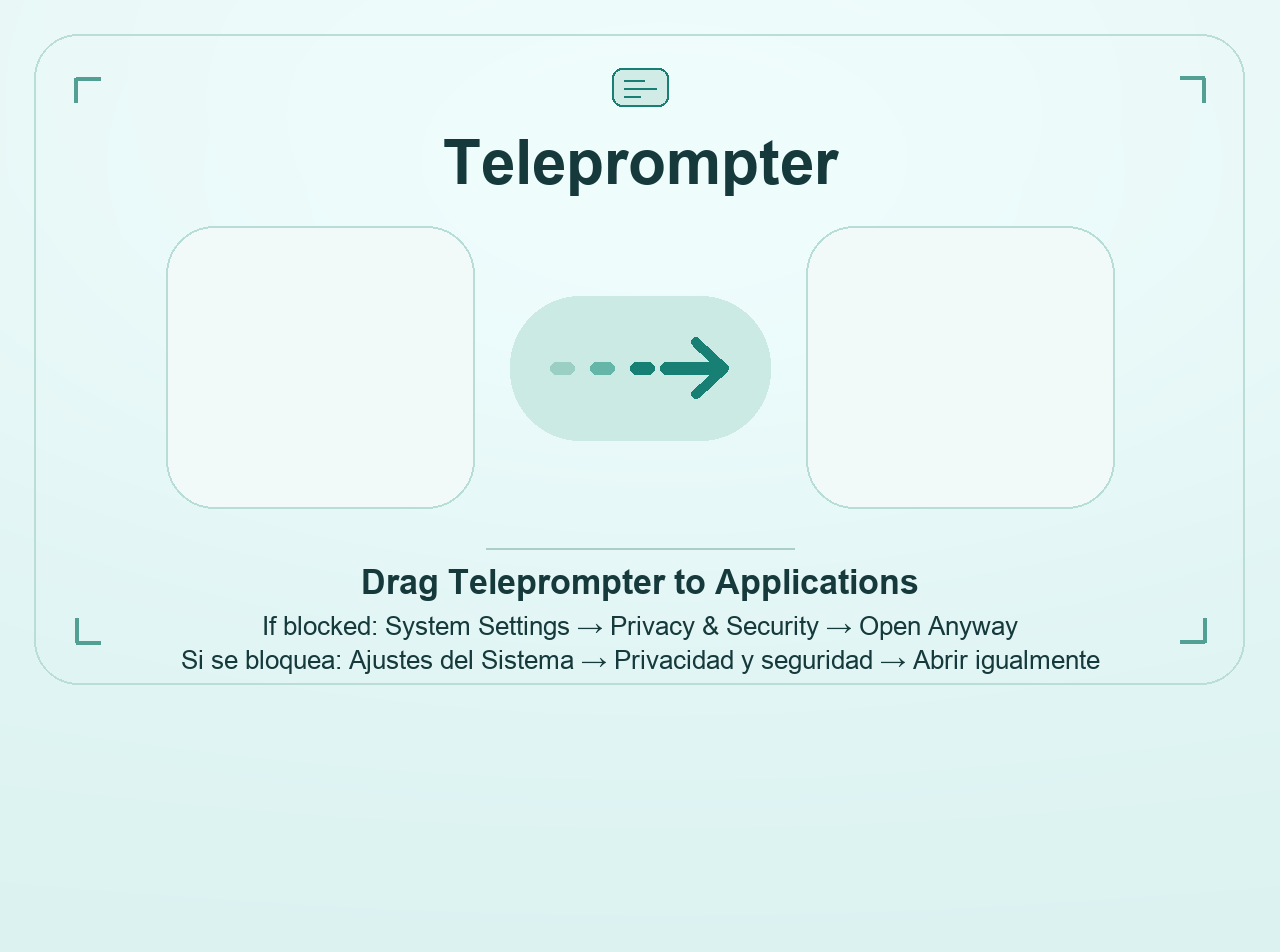
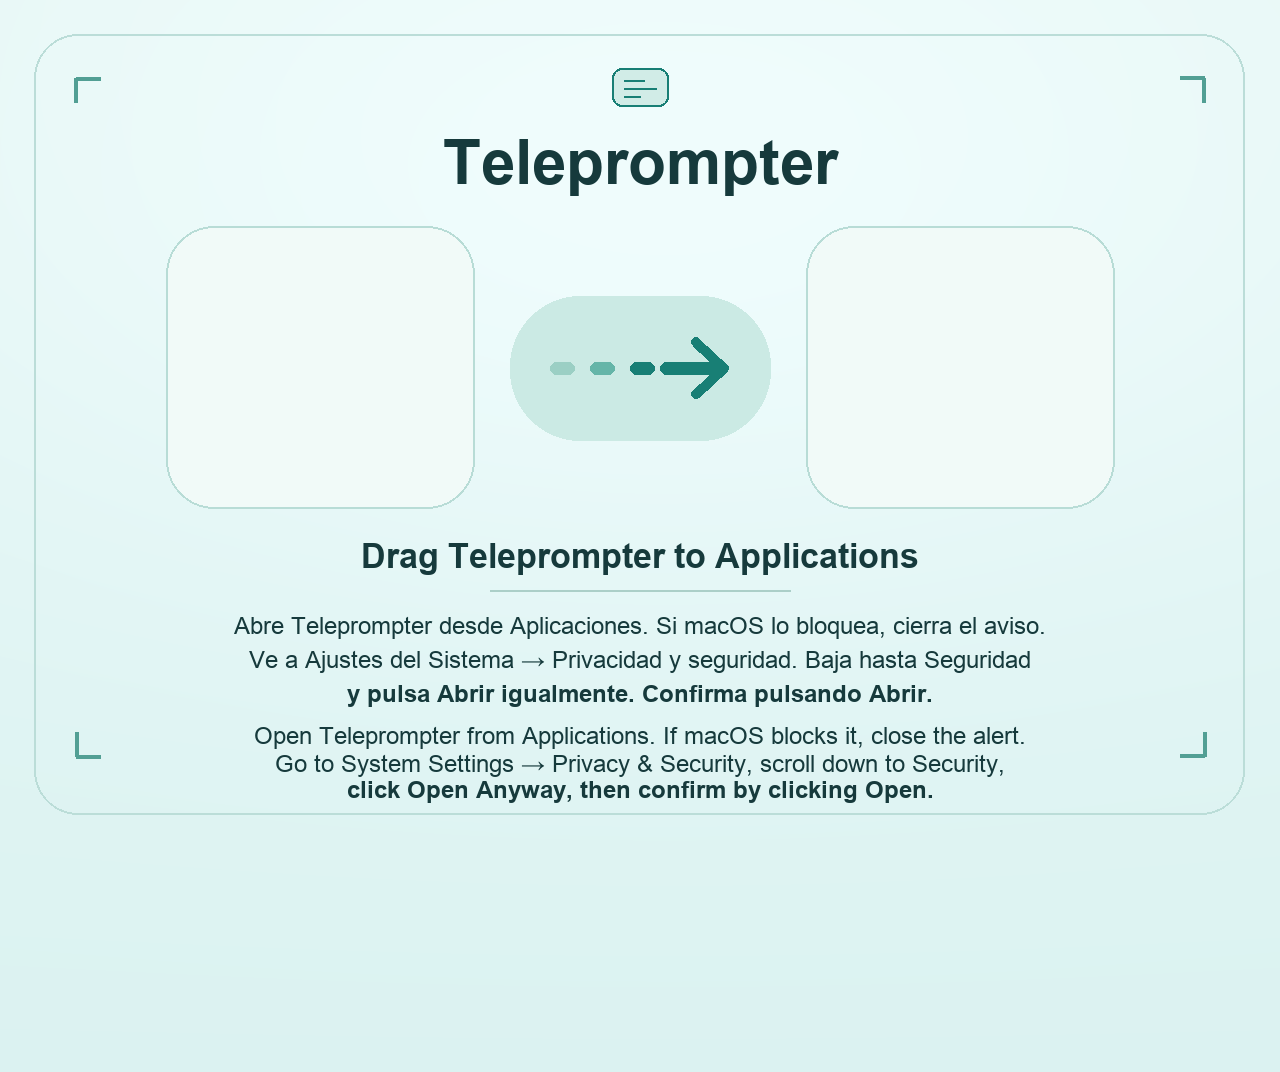
Show complete first-launch instructions in the DMG

diff --git a/scripts/dmg-layout.py b/scripts/dmg-layout.py
@@ -7,9 +7,9 @@ background = str(Path(defines["assets"]) / "installer-background.png")
 
 filesystem = "HFS+"
 format = "UDZO"
-# The artwork occupies the top 360 points. Leave room for Finder bars
+# The artwork occupies the top 410 points. Leave room for Finder bars
 # that can still be visible when the user has enabled them globally.
-window_rect = ((160, 130), (640, 476))
+window_rect = ((160, 110), (640, 536))
 default_view = "icon-view"
 show_toolbar = False
 show_sidebar = False
